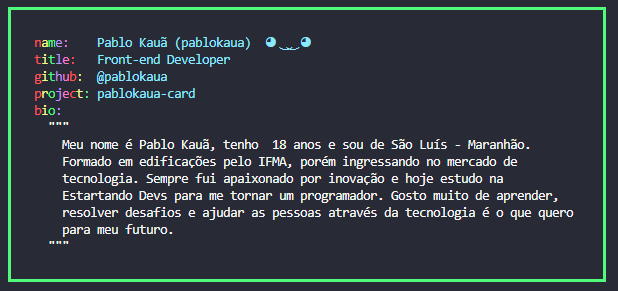
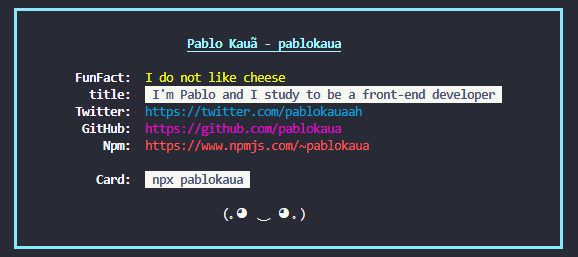
npx pablokaua

Changed region(s): [[0.0, 0.0, 0.9965, 0.9961], [0.3737, 0.8093, 0.5294, 0.8716], [0.0623, 0.7782, 0.2803, 0.8405]]

diff --git a/index.js b/index.js
@@ -1,42 +1,30 @@
-const { render } = require("prettyjson");
-const data = require("./data");
+const { data }= require("./data");
 const boxen = require('boxen');
-const figlet = require('figlet')
-const nome =  "EstDevs Pablo Card"
+const chalk = require('chalk');
 
-
-
-const renderOpts = {
-  dashColor: "magenta",
-  keysColor: "rainbow",
-  stringColor: "cyan",
-  multilineStringColor: 'white'
-};
 
 const boxenOpts = {
   margin: 1,
   float: 'center',
-  padding: 1,
+  padding: {top:1, bottom: 1, right: 8, left: 8},
   borderStyle: "bold",
-  borderColor: "green",
+  borderColor: "cyan",
 };
 
-const figletOpts = {
-  horizontalLayout: 'default',
-  verticalLayout: 'default',
-  width: 300,
-  whitespaceBreak: true,
-};
+const me = 
+[
+  `                ${data.name}`,
+  ``,
+  `${data.labelFact}  ${data.fact}`,
+  `${data.labelTitle}  ${data.title}`,
+  `${data.labelTwitter} ${data.twitter}`,
+  `${data.labelGitHub}  ${data.github}`,
+  `${data.labelNpm}  ${data.npm}`,
+  ``,
+  `${data.labelCard}  ${data.npx}`,
+  ``,
+  `                     (｡◕  ‿  ◕ ｡)`
+].join("\n")
 
-const finalRender = render(data, renderOpts)
 
-figlet . text ( nome , figletOpts,  function ( err ,  data )  { 
-  if  ( err )  { 
-      console . log ( 'Algo deu errado...' ) ; 
-      console . log( erro ) ; 
-      return ; 
-  } 
-  console . log ( data ) ; 
-} ) ;
-
-module.exports = () => boxen(finalRender, boxenOpts);
+module.exports = () => boxen(me, boxenOpts);

diff --git a/data.js b/data.js
@@ -1,13 +1,24 @@
+const chalk = require("chalk");
+
+const data = {
+  name: chalk.bold.cyan.underline("Pablo Kauã - pablokaua"),
+  title:  chalk.bgWhite.black.bold(" I'm Pablo and I study to be a front-end developer "),
+  fact: chalk.hex('#F8FF09')('I do not like cheese'),
+  twitter: chalk.hex('#00A1D9')(" https://twitter.com/pablokauaah"),
+  github: chalk.hex('#E300CB')("https://github.com/pablokaua"),
+  npm:chalk.hex('#FF0000')("https://www.npmjs.com/~pablokaua"),
+  npx: chalk.bgWhite.black.bold(" npx pablokaua "),
+
+  labelFact: chalk.hex('#FFFFFF').bold("FunFact:"),
+  labelTwitter: chalk.hex('#FFFFFF').bold("Twitter:"),
+  labelGitHub: chalk.hex('#FFFFFF').bold(" GitHub:"),
+  labelCard: chalk.hex('#FFFFFF').bold("   Card:"),
+  labelNpm: chalk.hex('#FFFFFF').bold("    Npm:"),
+  labelTitle: chalk.hex('#FFFFFF').bold("  title:")
+};
+
 module.exports = {
-    name: "Pablo Kauã (pablokaua)  ◕ ‿‿ ◕",
-    title: "Front-end Developer",
-    github: "@pablokaua",
-    project: "pablokaua-card",
-    bio: `Meu nome é Pablo Kauã, tenho  18 anos e sou de São Luís - Maranhão.
-Formado em edificações pelo IFMA, porém ingressando no mercado de
-tecnologia. Sempre fui apaixonado por inovação e hoje estudo na
-Estartando Devs para me tornar um programador. Gosto muito de aprender, 
-resolver desafios e ajudar as pessoas através da tecnologia é o que quero 
-para meu futuro.`
-  };
+  data
+}
+
 
